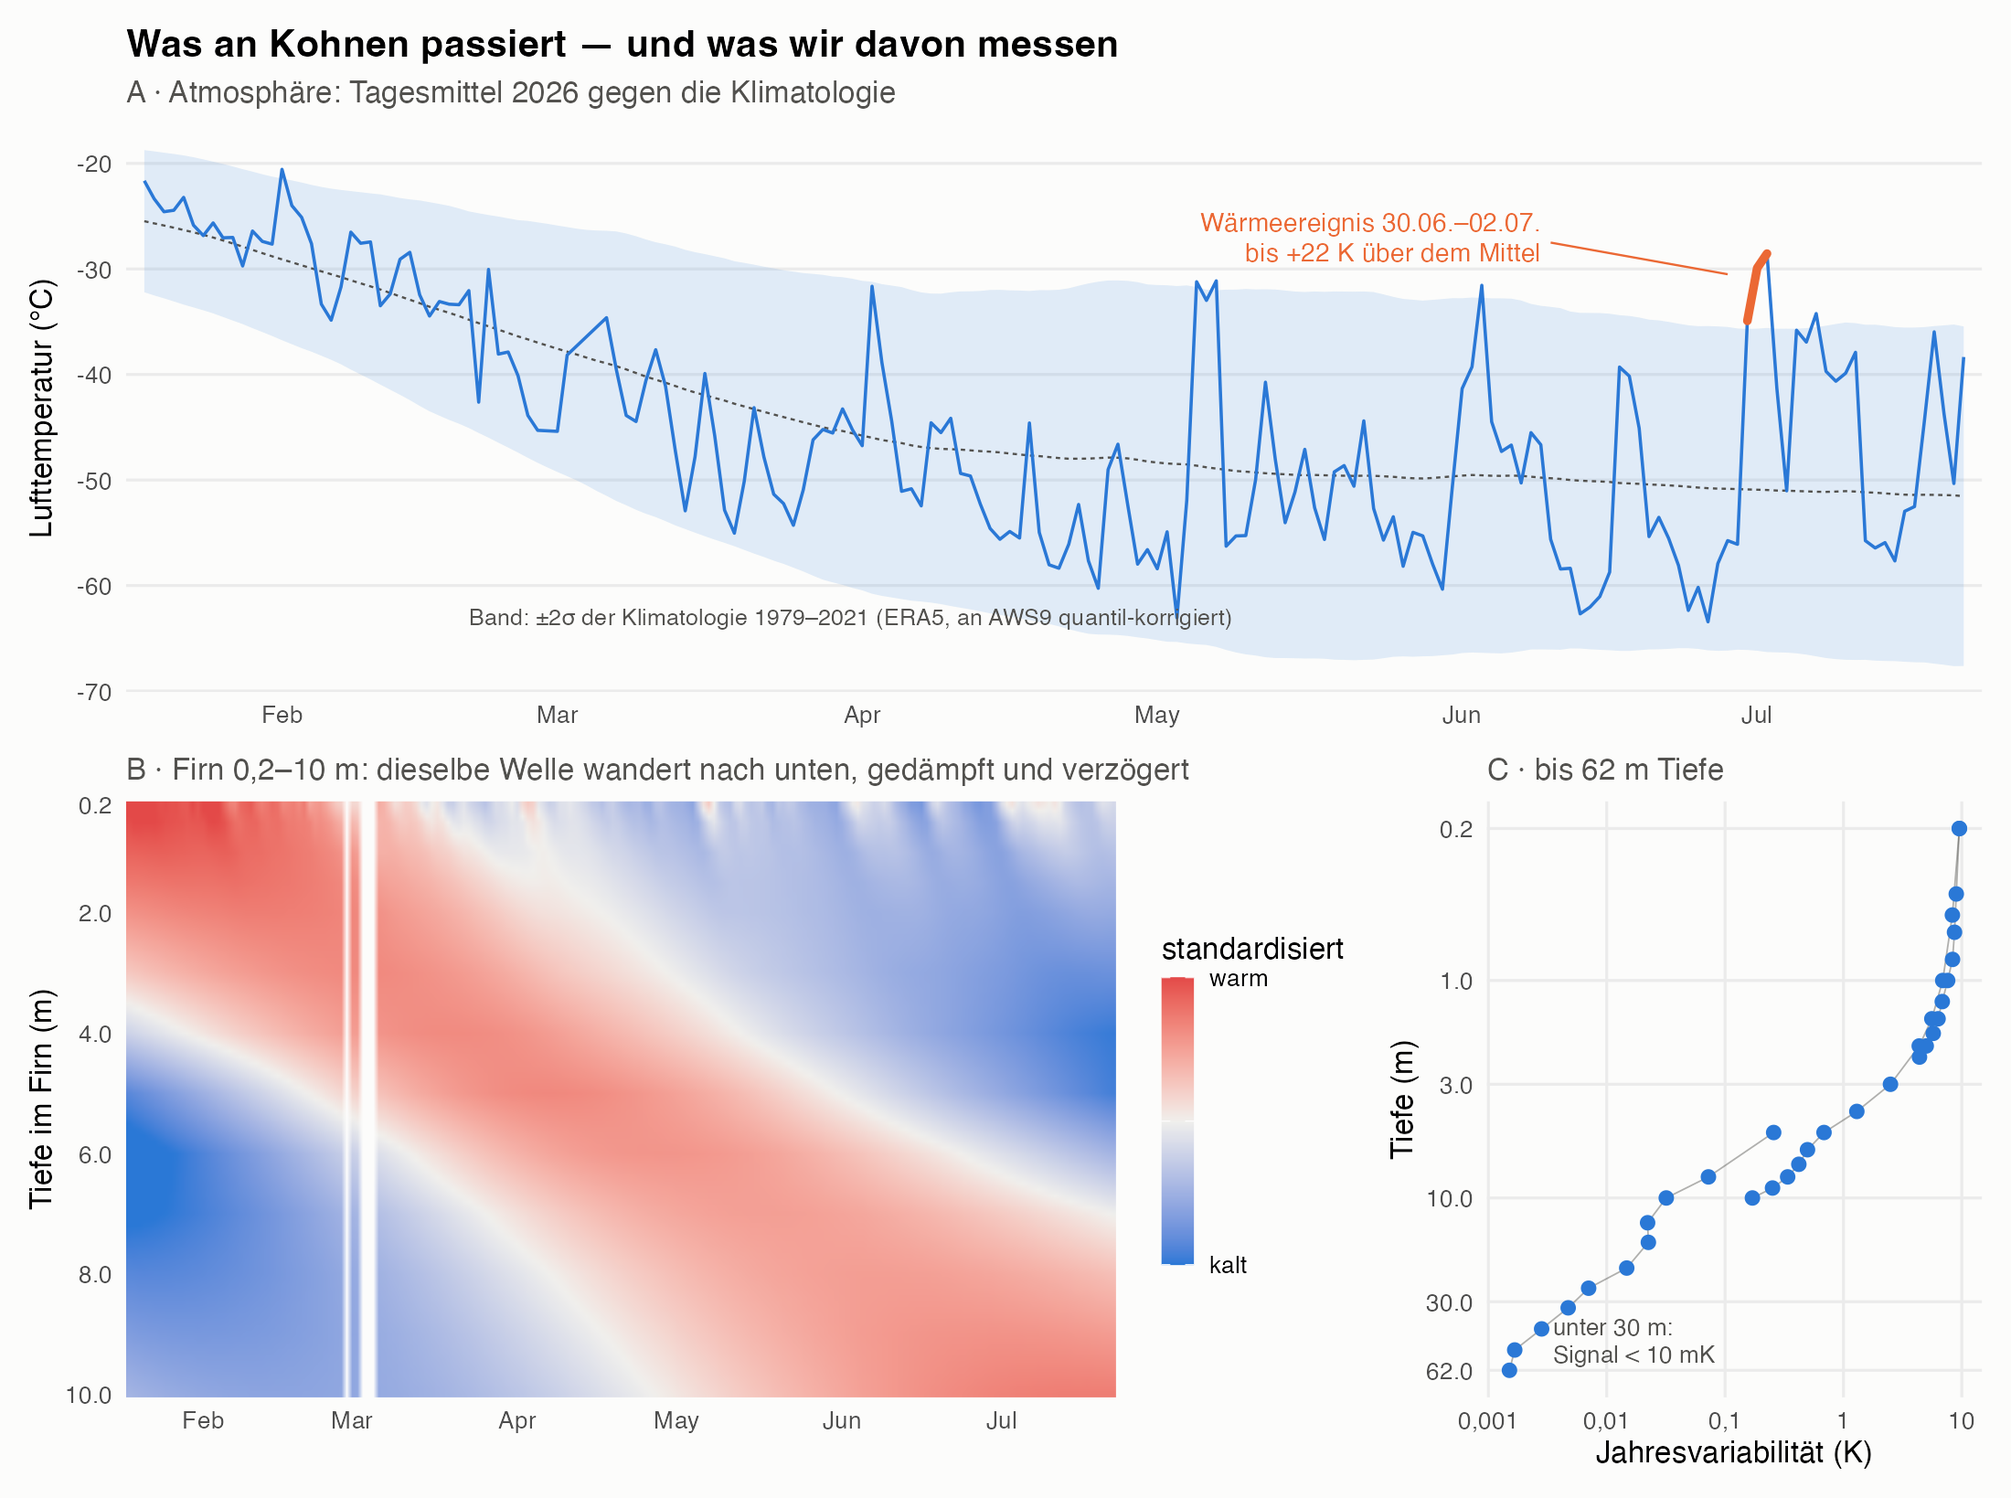
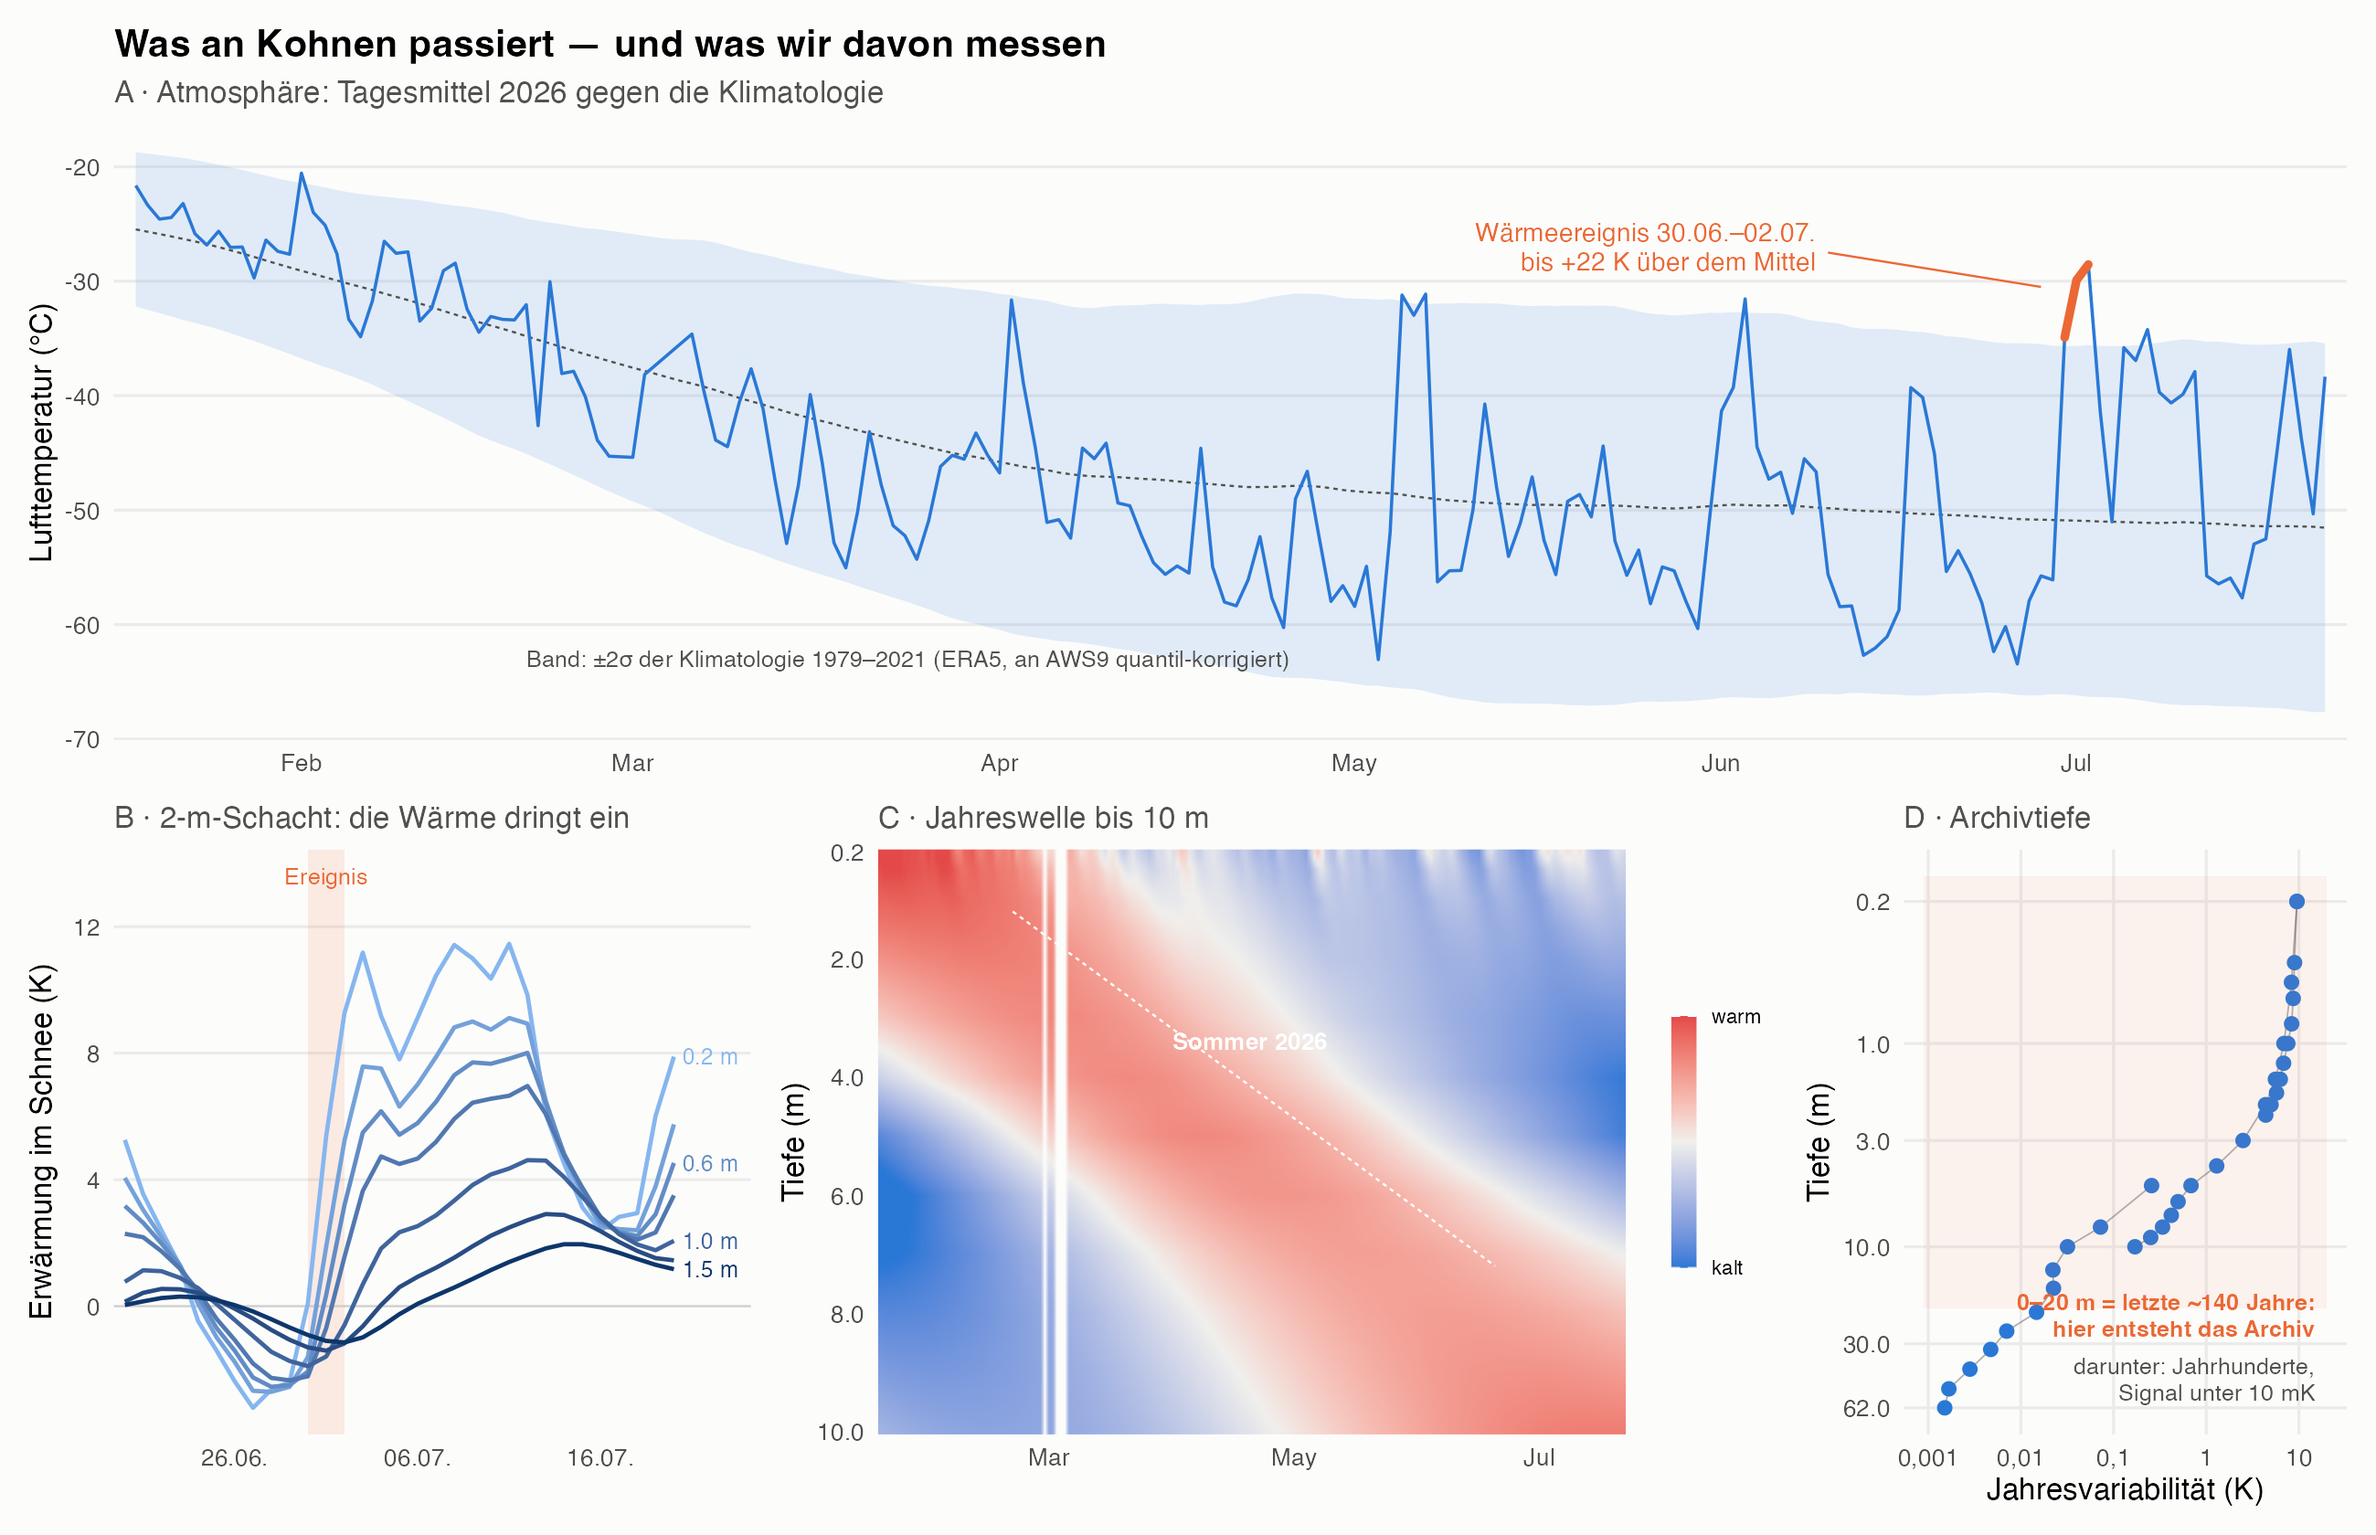
fig1: show the event penetrating the 2 m pit; state why the top 20 m matter
The old panel B claimed the July event was the wave visible in the firn
— wrong: a 3-day event has a damping depth of ~14 cm and never reaches
those depths; what was shown is the seasonal summer wave. Now separated:
new panel B is the 2 m pit at daily resolution, where the July warm
phase really does penetrate (0.8 m after two days, 1.5 m after ten,
damped 12 K -> 2 K), panel C keeps the annual wave to 10 m and labels it
as the 2026 summer, panel D marks 0-20 m as the archive-forming layer
(~140 years at Kohnen).

Caption now answers why near-surface firn temperature matters at all:
isotope diffusion and vapour transport that alter the signal after
deposition, densification (close-off, delta-age, altimetry mass balance),
the upper boundary condition for borehole palaeothermometry, and a
low-pass integral of the surface energy balance that tests models harder
than air temperature — plus it is cheap enough to scale into a network.

diff --git a/figures/README.md b/figures/README.md
@@ -8,21 +8,32 @@ Aufruf aus diesem Ordner: `Rscript make_fig1_kohnen.R` bzw. `Rscript make_fig2_n
 Ein Winter an Kohnen, gemessen von der Luft bis 62 m Tiefe. **(A)** Tagesmittel der
 Lufttemperatur 2026 gegen die Klimatologie 1979–2021 (Band = ±2σ; ERA5, mit den
 Stationsdaten der AWS9 quantil-korrigiert). Ende Juni erreicht ein Warmluftvorstoß
-bis **+22 K über dem Mittel** — drei Tage über der 2σ-Schwelle. **(B)** Dieselbe Welle
-im Firn: standardisierte Temperaturabweichung zwischen 0,2 und 10 m Tiefe; das
-Sommersignal wandert sichtbar nach unten, gedämpft und verzögert. **(C)** Über die
-gesamte Kette von 0,2 bis 62 m fällt die Jahresvariabilität um **vier Größenordnungen**,
-von 10 K an der Oberfläche auf unter 10 mK unterhalb 30 m — dort steht das Profil für
-die Temperaturgeschichte der letzten Jahrhunderte. Alle Daten aus einem autonomen
-System (35 Sensoren, tägliche Satellitenübertragung); die weiße Lücke Anfang März ist
-ein Übertragungsausfall.
+**bis +22 K über dem Mittel**. **(B)** Derselbe Vorstoß im 2-m-Schacht: die Wärme dringt
+in den Schnee ein — nach zwei Tagen steht sie bei 0,8 m, nach zehn bei 1,5 m, gedämpft
+von 12 K auf 2 K. **(C)** Auf der Jahresskala dasselbe Prinzip: die Sommerwärme von
+Januar/Februar wandert nach unten und erreicht **im Winter 6–8 m Tiefe** (standardisiert
+je Tiefe, sonst wäre die Welle unterhalb weniger Meter unsichtbar). **(D)** Über die
+gesamte Kette fällt die Jahresvariabilität um **vier Größenordnungen**, von 10 K an der
+Oberfläche auf unter 10 mK unterhalb 30 m.
 
-Panel B ist bewusst je Tiefe standardisiert — nur so bleibt die Wellenausbreitung bis
-10 m sichtbar; die absoluten Amplituden stehen in Panel C.
+**Warum die oberen 10–20 m zählen:** Dort entsteht das Eiskernarchiv. Die
+Firntemperatur steuert die Isotopendiffusion und den Dampftransport, die das Klimasignal
+nach der Ablagerung noch verändern; sie steuert die Verdichtung, von der Close-off-Tiefe,
+Eis-Gas-Altersdifferenz und die Umrechnung von Satelliten-Höhenänderungen in Massenbilanz
+abhängen; und sie ist die obere Randbedingung, ohne die sich aus dem tiefen Bohrlochprofil
+keine Oberflächentemperatur-Geschichte invertieren lässt. Zugleich ist sie ein
+tiefpassgefiltertes Integral der Oberflächenenergiebilanz — ein strengerer Modelltest als
+jede Lufttemperaturmessung (die Reanalyse ERA5 liegt hier im Winter um +4,6 K daneben). An
+Kohnen entsprechen 10 m rund 60 und 20 m rund 140 Jahren. Und anders als ein tiefes
+Bohrloch ist dieser Tiefenbereich billig, wiederholbar und damit **netzwerkfähig**.
+
+Alle Daten aus einem autonomen System (35 Sensoren, tägliche Satellitenübertragung); die
+weiße Lücke Anfang März ist ein Übertragungsausfall.
 
 Datenquellen: `KohnenRecords_Analyse/data/decoded_head03_231709_combined.csv`,
 `data/head03_depths.csv`, ERA5 (`antwarm26/experiments/era5_legacy_merged.rds`),
-AWS9 (`t4m_ms26/data/processed/AWS9_daily.RData`).
+AWS9 (`t4m_ms26/data/processed/AWS9_daily.RData`), Tiefen-Alter aus
+`sharedAI/AWS_Wetterstation_Entwicklung/daten/accum_stats.csv`.
 
 ## fig2_netzwerk.png — „Vom Einzelpunkt zum Netzwerk"
 
